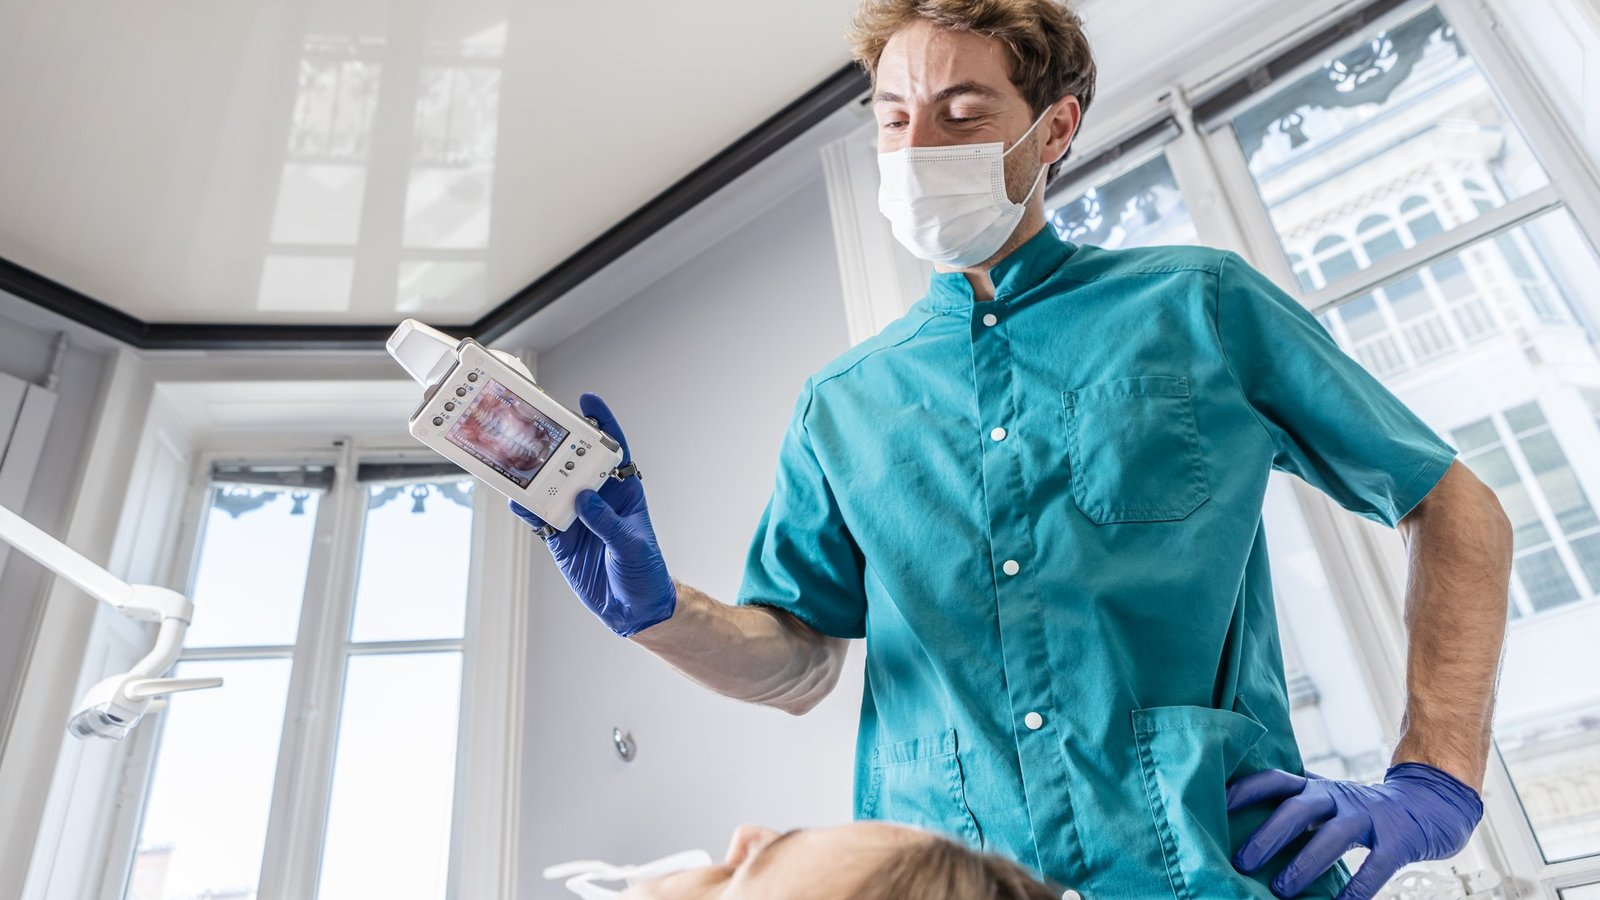
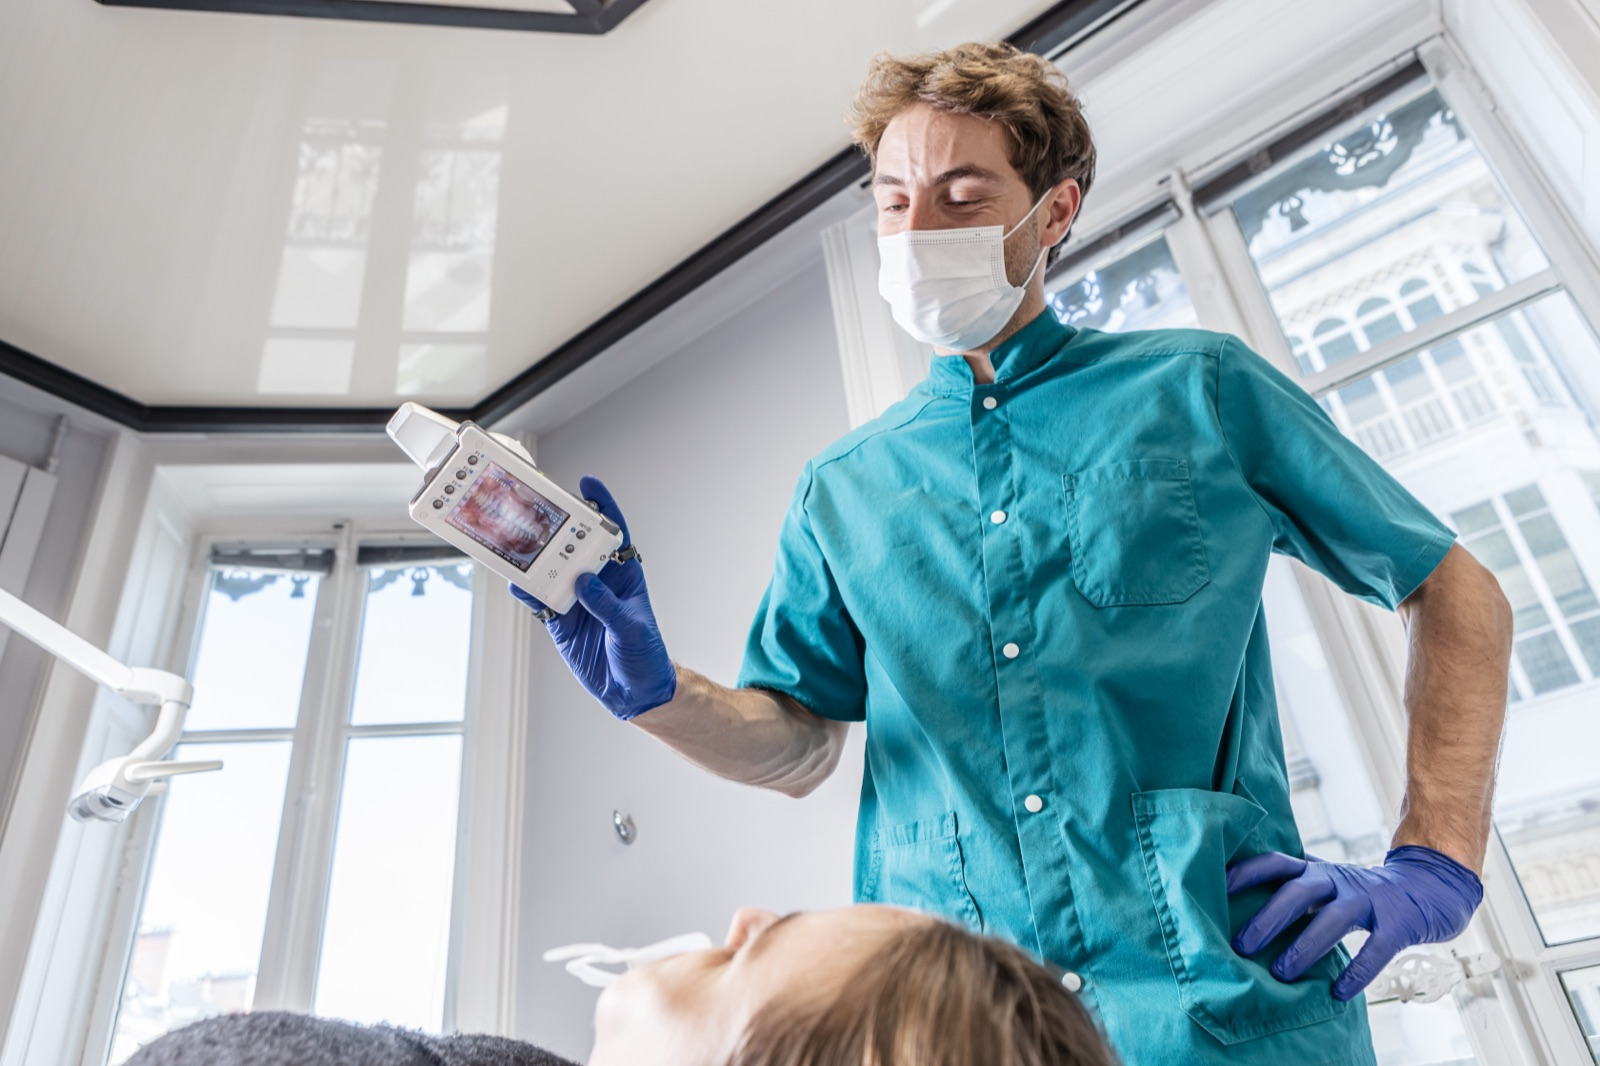
Mise à jour du site

diff --git a/style.css b/style.css
@@ -13,9 +13,9 @@ h3 { font-size: 1.8rem; font-weight: 600; } h4 { font-size: 1.4rem; font-weight:
 a { transition: color 0.3s ease; }
 
 /* NAV */
-nav { position: fixed; top: 0; left: 0; right: 0; z-index: 1002; padding: 1rem 2rem; display: flex; justify-content: space-between; align-items: center; background: rgba(30, 86, 49, 0.75); box-shadow: 0 2px 15px rgba(0,0,0,0.2); backdrop-filter: blur(8px); -webkit-backdrop-filter: blur(8px); transition: all 0.3s ease; }
-nav.transparent { background: rgba(30, 86, 49, 0.55); }
-nav.scrolled { background: rgba(30, 86, 49, 0.85); padding: 0.8rem 2rem; }
+nav { position: fixed; top: 0; left: 0; right: 0; z-index: 1002; padding: 1rem 2rem; display: flex; justify-content: space-between; align-items: center; background: var(--dark-green); box-shadow: 0 2px 15px rgba(0,0,0,0.2); backdrop-filter: blur(8px); -webkit-backdrop-filter: blur(8px); transition: all 0.3s ease; }
+nav.transparent { background: var(--dark-green); }
+nav.scrolled { background: var(--dark-green); padding: 0.8rem 2rem; }
 .nav-logo { display: flex; align-items: center; gap: 0.8rem; text-decoration: none; color: white; font-family: 'Playfair Display', serif; font-size: 1.2rem; font-weight: 700; }
 .nav-logo img { width: 66px; height: 66px; border-radius: 50%; object-fit: contain; transition: all 0.3s ease; background: white; box-shadow: 0 0 0 4px white; }
 nav.scrolled .nav-logo img { width: 52px; height: 52px; background: white; box-shadow: 0 0 0 4px white; }
@@ -35,7 +35,7 @@ nav.scrolled .nav-caducee { width: 38px; height: 38px; }
 .nav-lang-btn img { width: 100%; height: 100%; object-fit: cover; }
 
 /* HERO */
-.hero { position: relative; height: 100vh; overflow: hidden; display: flex; align-items: center; justify-content: center; color: white; }
+.hero { position: relative; margin-top: calc(66px + 2rem); height: calc(100vh - 66px - 2rem); overflow: hidden; display: flex; align-items: center; justify-content: center; color: white; }
 .hero-slideshow { position: absolute; width: 100%; height: 100%; top: 0; left: 0; }
 .slide { position: absolute; width: 100%; height: 100%; background-size: cover; background-position: center; opacity: 0; transition: opacity 1.2s ease-in-out; }
 .slide.active { opacity: 1; }
@@ -384,7 +384,8 @@ body.menu-open { overflow: hidden; position: fixed; width: 100%; }
 @media (max-width: 768px) {
     *, *::before, *::after { max-width: 100%; box-sizing: border-box; }
     h1 { font-size: 2.5rem; } h2 { font-size: 2rem; } h3 { font-size: 1.5rem; }
-    nav, nav.scrolled { padding: 0.8rem 1rem; width: 100%; background: rgba(30, 86, 49, 0.75) !important; backdrop-filter: blur(6px); -webkit-backdrop-filter: blur(6px); box-shadow: 0 2px 15px rgba(0,0,0,0.2); }
+    nav, nav.scrolled { padding: 0.8rem 1rem; width: 100%; background: var(--dark-green) !important; backdrop-filter: blur(6px); -webkit-backdrop-filter: blur(6px); box-shadow: 0 2px 15px rgba(0,0,0,0.2); }
+    .hero { margin-top: calc(66px + 1.6rem); height: calc(100vh - 66px - 1.6rem); }
     .nav-menu a { color: rgba(255,255,255,0.95) !important; font-weight: 600; text-shadow: 0 1px 3px rgba(0,0,0,0.3); }
     nav .hamburger span, nav.scrolled .hamburger span { background: white !important; }
     nav .nav-logo img, nav.scrolled .nav-logo img { background: white !important; box-shadow: 0 0 0 4px white !important; }

diff --git a/index.html b/index.html
@@ -140,8 +140,7 @@
         <div class="hero-slideshow">
             <div class="slide active" style="background-image: url('img/slide-1.jpg');"></div>
             <div class="slide" style="background-image: url('img/slide-2.jpg');"></div>
-            <div class="slide" style="background-image: url('img/slide-3.jpg');"></div>
-            <div class="slide" style="background-image: url('img/slide-4.jpg');"></div>
+            <div class="slide" style="background-image: url('img/slide-3.jpg?v=2'); background-position: center top;"></div>
         </div>
         <div class="hero-overlay"></div>
         <div class="hero-content">
@@ -156,7 +155,6 @@
             <div class="dot active" onclick="currentSlide(0)"></div>
             <div class="dot" onclick="currentSlide(1)"></div>
             <div class="dot" onclick="currentSlide(2)"></div>
-            <div class="dot" onclick="currentSlide(3)"></div>
         </div>
     </section>
 
